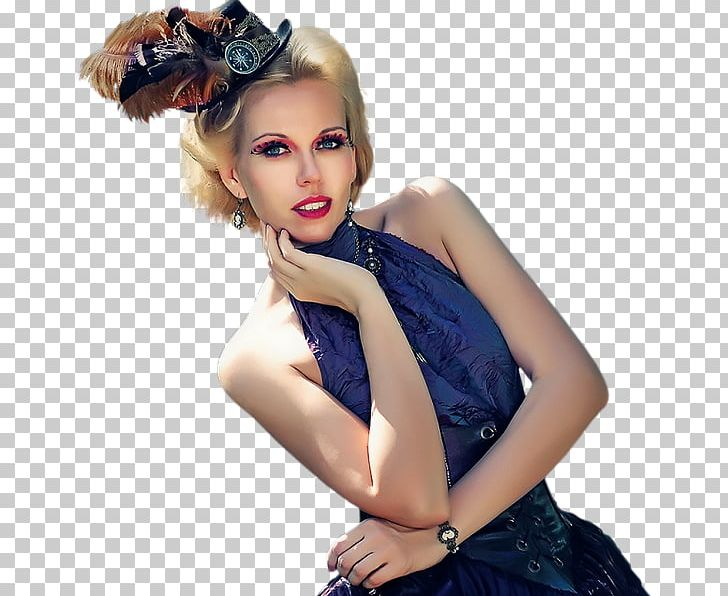
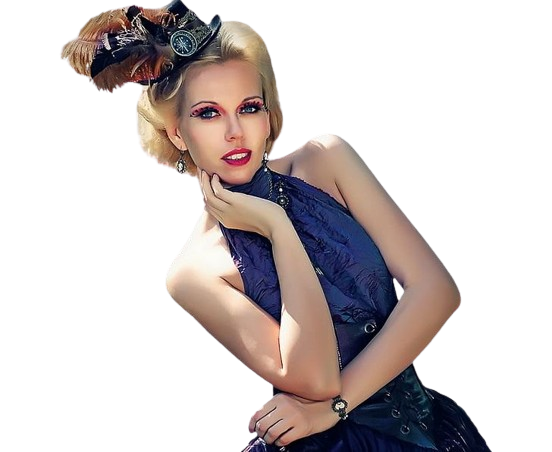
changes some css

diff --git a/frontend/src/components/hero/hero.css b/frontend/src/components/hero/hero.css
@@ -26,6 +26,10 @@
     display: flex;
     align-items: center;
     gap:20px;
+    
+}
+.hero-hand-icon img{
+    width: 400px;
 }
 .hero-latest-btn{
     display: flex;
@@ -36,7 +40,7 @@
     height: 70px;
     border-radius: 75px;
     margin-top: 30px;
-    background-color: #ff4141;
+    background-color:purple;
     color: white;
     font-size: 22px;
     font-weight: 500;
@@ -58,7 +62,7 @@
         font-size: 60px;
     }
     .hero-hand-icon img{
-        width: 80px;
+        width: 90px;
     }
     .hero-latest-btn{
         gap: 10px;
@@ -82,7 +86,7 @@
         font-size: 50px;
     }
     .hero-hand-icon img{
-        width: 65px;
+        width: 90px;
     }
     .hero-latest-btn{
         width: 220px;
@@ -104,7 +108,7 @@
         font-size: 40px;
     }
     .hero-hand-icon img{
-        width: 50px;
+        width: 60px;
     }
     .hero-latest-btn{
         width: 175px;
@@ -126,7 +130,7 @@
         font-size: 50px;
     }
     .hero-hand-icon img{
-        width: 55px;
+        width: 70px;
     }
     .hero-latest-btn{
         width: 200px;

diff --git a/frontend/src/components/navbar/navbar.css b/frontend/src/components/navbar/navbar.css
@@ -46,12 +46,12 @@
     outline: none;
     border: 1px solid #7a7a7a;
     border-radius: 75px;
-    color:#515151;
+    color:whitesmoke;
     width: 157px;
     height: 58px;
     font-size:20px ;
     font-weight: 500;
-    background: white;
+    background: rgb(4, 65, 88);
     cursor: pointer;
 }
 .nav-login-cart button:active{

diff --git a/frontend/src/components/hero/Hero.jsx b/frontend/src/components/hero/Hero.jsx
@@ -1,6 +1,6 @@
 import React from 'react'
 import './hero.css'
-import hand_icon from '../Assets/hand_icon.png'
+import hand_icon from '../Assets/new_collection.png'
 import arrow_icon from '../Assets/arrow.png'
 import hero_image from '../Assets/hero_image.png'
 

diff --git a/frontend/src/components/newsletter/newsletter.css b/frontend/src/components/newsletter/newsletter.css
@@ -8,7 +8,7 @@
     margin: auto;
     padding: 0px 140px;
     margin-bottom: 150px;
-    background: linear-gradient(180deg, #fde1ff 0%, #e1ffea22 60%);
+    background: linear-gradient(180deg, #ddd5fb 0%, #e1ffea22 60%);
     gap: 30px;
 }
 .newsletter h1{

diff --git a/frontend/src/components/offers/offers.css b/frontend/src/components/offers/offers.css
@@ -43,6 +43,9 @@
     justify-content: flex-end;
     padding-top: 50px;
 }
+.offers-right img{
+    width: 500px;
+}
 @media(max-width:1280px){
     .offers{
         padding: 0px 80px;
